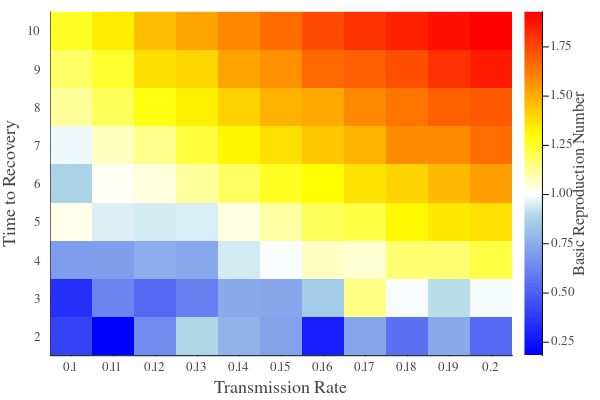
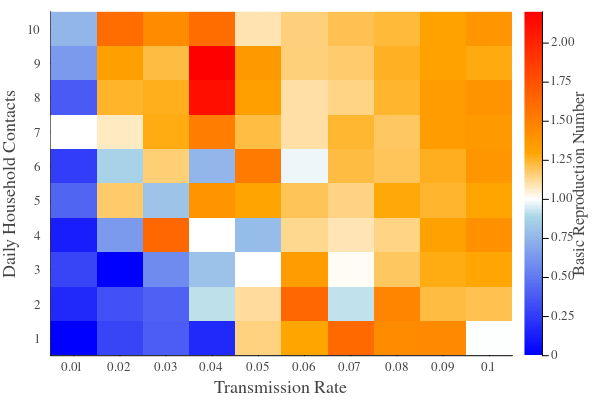
updated tutorials 1-4

diff --git a/docs/src/tut_batches.md b/docs/src/tut_batches.md
@@ -92,7 +92,7 @@ gemsplot(rd, legend = :topright)
 ``` 
 
 You can also vary multiple parameters at once and show the results in a heatmap.
-This example runs simulations varying the `transmission_rate` and `time_to_recovery`, and plots the calculated `r0` value of all combinations in a heatmap:
+This example runs simulations varying the `transmission_rate` and daily `household_contacts`, and plots the calculated `r0` value of all combinations in a heatmap:
 
 ```julia
 using GEMS
@@ -102,23 +102,23 @@ yvals = []
 outvals = []
 
 # vary transmission rate
-for tr in 0.1:0.01:0.2
-    # vary time to recovery
-    for rec in 2:10
-        sim = Simulation(transmission_rate = tr, time_to_recovery = rec)
+for tr in 0.01:0.01:0.10
+    # vary household contacts
+    for con in 1:10
+        sim = Simulation(transmission_rate = tr, household_contacts = con)
         run!(sim)
         rd = ResultData(sim, style = "LightRD")
 
         # extract data for heatmap
         push!(xvals, tr)
-        push!(yvals, rec)
+        push!(yvals, con)
         push!(outvals, r0(rd))
     end
 end
 
 gemsheatmap(xvals, yvals, outvals,
     xlabel = "Transmission Rate",
-    ylabel = "Time to Recovery (Days)",
+    ylabel = "Daily Household Contacts",
     colorbar_title = "Basic Reproduction Number",
     color = :r0) 
 ```
@@ -170,7 +170,7 @@ gemsplot(rd)
 Use the `combined = :bylabel` keyword to show both scenarios side-by-side (pass the `ylims` attribute to unify axis-scaling):
 
 ```julia
-gemsplot(rd, type = :TickCases, combined = :bylabel, ylims = (0, 2000))
+gemsplot(rd, type = :TickCases, combined = :bylabel, ylims = (0, 2200))
 ```
 
 

diff --git a/docs/src/tut_plotting.md b/docs/src/tut_plotting.md
@@ -91,7 +91,7 @@ If you try to plot any `gemsmap` for the first time, it will trigger the downloa
 ```julia
 using GEMS
 sim = Simulation(population = "MV")
-gemsmap(sim, type = :PopDensityMap, clims = (0, 100))
+gemsmap(sim, type = :PopDensityMap)
 ```
 
 **Plot**
@@ -198,7 +198,7 @@ rd = ResultData(sim)
 # pass as many plots to the "plot" functions as you want
 plot(
     histogram(ages, xlabel = "Age", ylabel = "Number of Individuals", label = "Individuals per Age"),
-    gemsmap(sim, type = :PopDensityMap, clims = (0, 100)),
+    gemsmap(sim, type = :PopDensityMap),
     gemsplot(rd, type = :CumulativeCases, xlims = (0, 100)),
     layout = (3, 1),
     size = (400, 1000)
